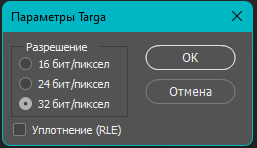
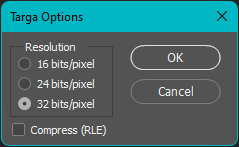
Almost Fix prev commit

diff --git a/src/texturing/working-correctly-with-icon-atlases.md b/src/texturing/working-correctly-with-icon-atlases.md
@@ -1,21 +1,23 @@
 # Working correctly with icon atlases
 
-> Greetings, this is comrade Hrusteckiy - UI-programmer, whose work can be seen in the New Project, Last Fallout Overhaul, Oblivion, Hike, and many others, also made 100x100 icons for the original game.Noticed that many modders suffer from improper saving textures and work with them. This guide will make their life easier and teach them to do without mistakes (by the way, came to this myself through their own messes).
+> Greetings, this is comrade [Hrusteckiy](#hrust-contacts) - UI-programmer, whose work can be seen in the New Project, Last Fallout Overhaul, Oblivion, Hike, and many others, also made 100x100 icons for the original game. Noticed that many modders suffer from improper saving textures and work with them. This guide will make their life easier and teach them to do without mistakes (by the way, came to this myself through their own messes).
+
+___
 
 ## Let's start with software
 
 * First of all, use Photoshop CS5/CS6 or CC (I use 2019)
 * Second, forget about the Stalker Icon Editor
-* Third, we need PaintDotNet. That is, we use only two programs to work with the icons themselves, not counting the program for rendering them
+* Third, we need [Paint.net](https://www.getpaint.net/). That is, we use only two programs to work with the icons themselves, not counting the program for rendering them
 
-Next, you need to work with the source - tga ideal buffer format for these two programs, save it in 32-bit format.
+Next, you need to work with the source - [.tga](https://en.wikipedia.org/wiki/Truevision_TGA) ideal buffer format for these two programs, save it in 32-bit format.
 
-![Alt text](images/tga-settings.png)![Alt text](images/save-settings.png)
+![tga options centered](images/tga-settings.png)![Save Settings centered](images/save-settings.png)
 
-To add new icons, use PaintDotNet. We make a new layer, paste on it the picture we need and adjust to the size (bilinear method), select the area, cut and paste to the main layer, thereby erasing the previous icon, if any. We save and go to Photoshop. Here we turn on the grid (Ctrl+E), its size is adjusted here, by default it is 50 pixels.
+To add new icons, use Paint.net. We make a new layer, paste on it the picture we need and adjust to the size (bilinear method), select the area, cut and paste to the main layer, thereby erasing the previous icon, if any. We save and go to Photoshop. Here we turn on the grid (Ctrl+'), its size is adjusted here, by default it is 50 pixels.
 
-![Alt text](images/image%20(2).png)
-![Alt text](images/image%20(3).png)
+![Photoshop grid centered](images/photoshop-grid.png)
+![Alt text centered](images/preferences.png)
 
 > IMPORTANT!!! DO NOT USE THE RIGHTMOST AND BOTTOMMOST CELLS, THEY ARE NOT WHOLE AND ARE SMALLER THAN THE REST BY A FEW PIXELS.
 
@@ -23,18 +25,39 @@ We select with shift color+alpha, and, if necessary, adjust the icon within a ce
 To copy icons from one atlas to another, select the icon on one, copy and paste on the other - it's best to do it with the color and alpha selected, so you don't have to transfer separately.
 Next, we go to "layers" and unlock the layer - this opens us information in the properties about the selected element and its position. This is where we will find out the coordinates, for 50x50 we have to use a calculator, and for 100x100 we just cut off two zeros each.
 
-UPD: in CS5/CS6 you can get coordinates on F8 (in the new versions have simplified access and it is on the properties fold).
+> UPD: in CS5/CS6 you can get coordinates on F8 (in the new versions have simplified access and it is on the properties fold).
 
-![Alt text](images/image%20(4).png)
+![Properties centered](images/properties.png)
 
-here is the position of the Ix 950, divide by 50 and we get 19 - this is the number written in inv_grid_x. Similar story with the player. W - Width 50, divide by 50, we get inv_grid_width equal to one. It's the same with height. AFTER UNLOCKING THE LAYER, DON'T SAVE THE ATLAS, JUST CLOSE IT!
-Open the atlas in PaintDotNet or in Photoshop (you need the dds plugin).
+Here is the position of the X - 950, divide by 50 and we get 19 - this is the number written in inv_grid_x. Similar story with the player. W - Width 50, divide by 50, we get inv_grid_width equal to one. It's the same with height.
+
+> AFTER UNLOCKING THE LAYER, DON'T SAVE THE ATLAS, JUST CLOSE IT!
+
+Open the atlas in Paint.net or in Photoshop (you need the .dds plugin).
+
+___
 
 ### To save in Photoshop
 
-![Alt text](images/image%20(5).png)
-![Alt text](images/image%20(6).png)
+![Photoshop save centered](images/photoshop-save.png)
+![Nvidia save options centered](images/nvidia-save-options.png)
+
+___
 
 ### To save in Paint.net
-![Alt text](images/image%20(7).png)
-![Alt text](images/image%20(8).png)
+
+![Alt text centered](images/image%20(7).png)
+![Alt text centered](images/image%20(8).png)
+
+___
+
+## Sources
+
+[Ap-pro Topic](https://ap-pro.ru/forums/topic/4205-pravilnaya-rabota-s-atlasami-ikonok/)
+
+### Hrust Contacts
+
+* [VK](https://vk.com/hrusteckiy)
+* [AMK](https://amk-team.ru/forum/profile/57247-hrust/)
+* [Ap-Pro](https://ap-pro.ru/profile/4757-hrust/)
+* Discord - Hrust#8964
